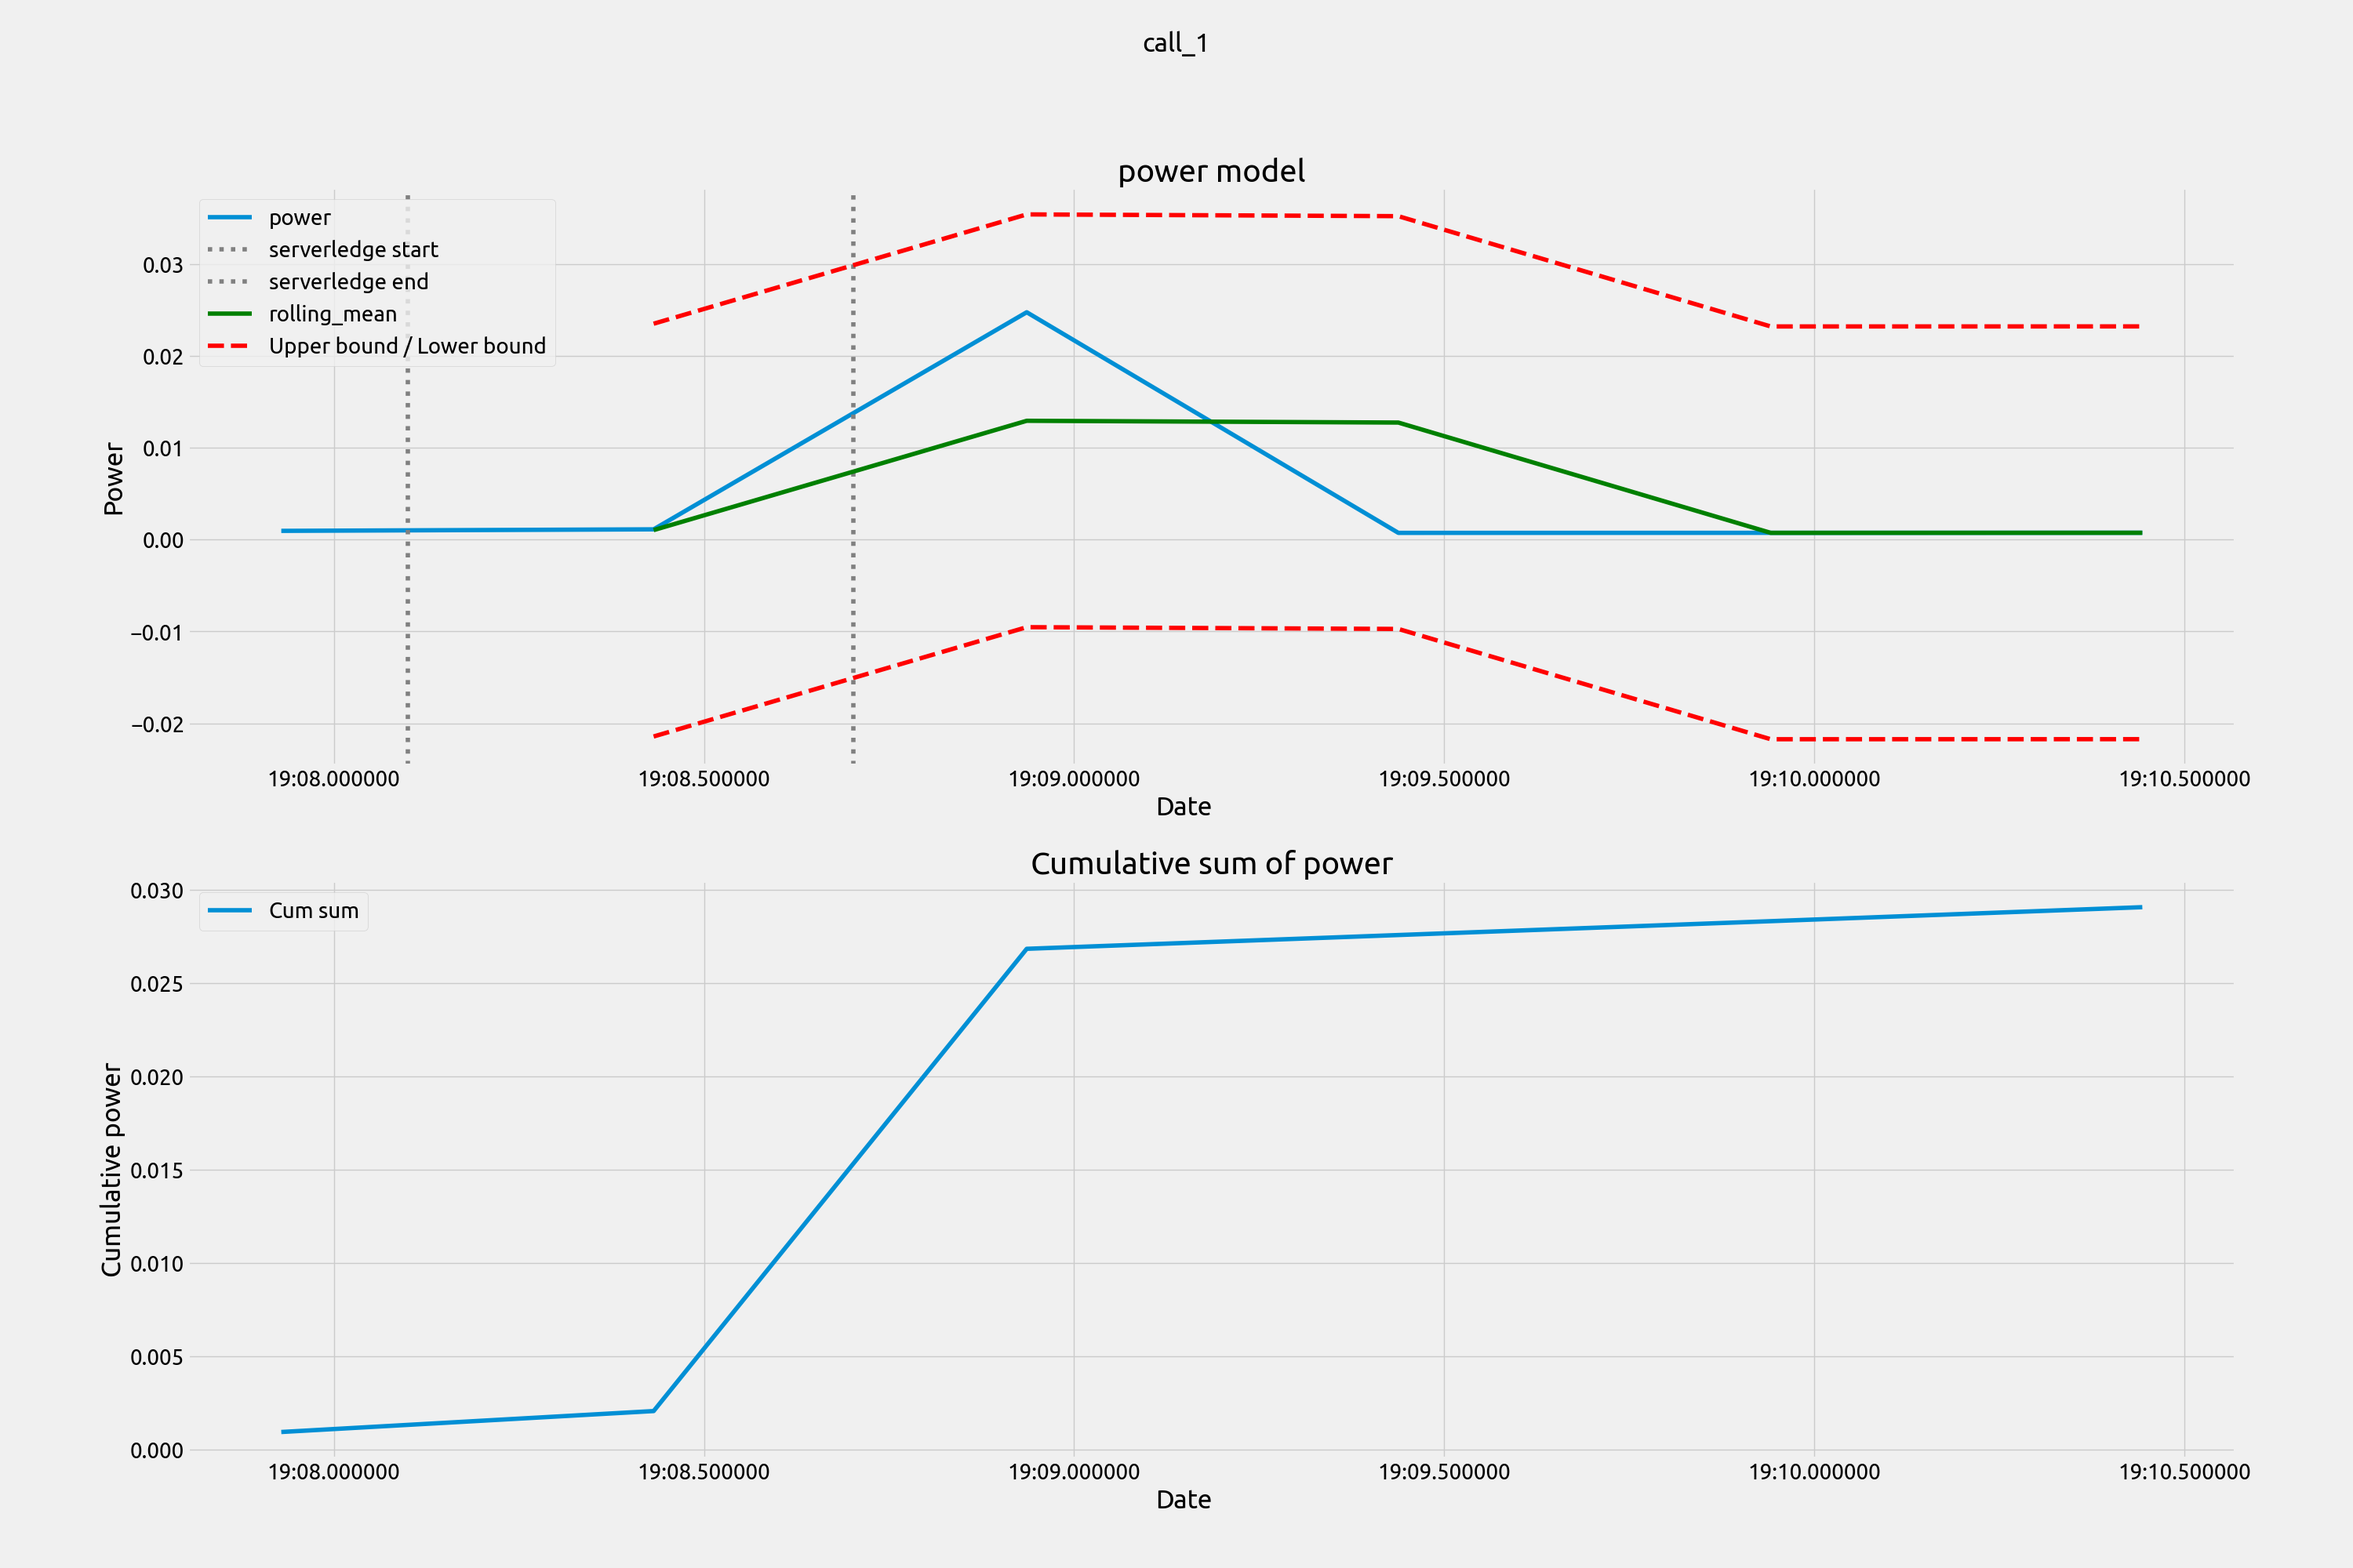
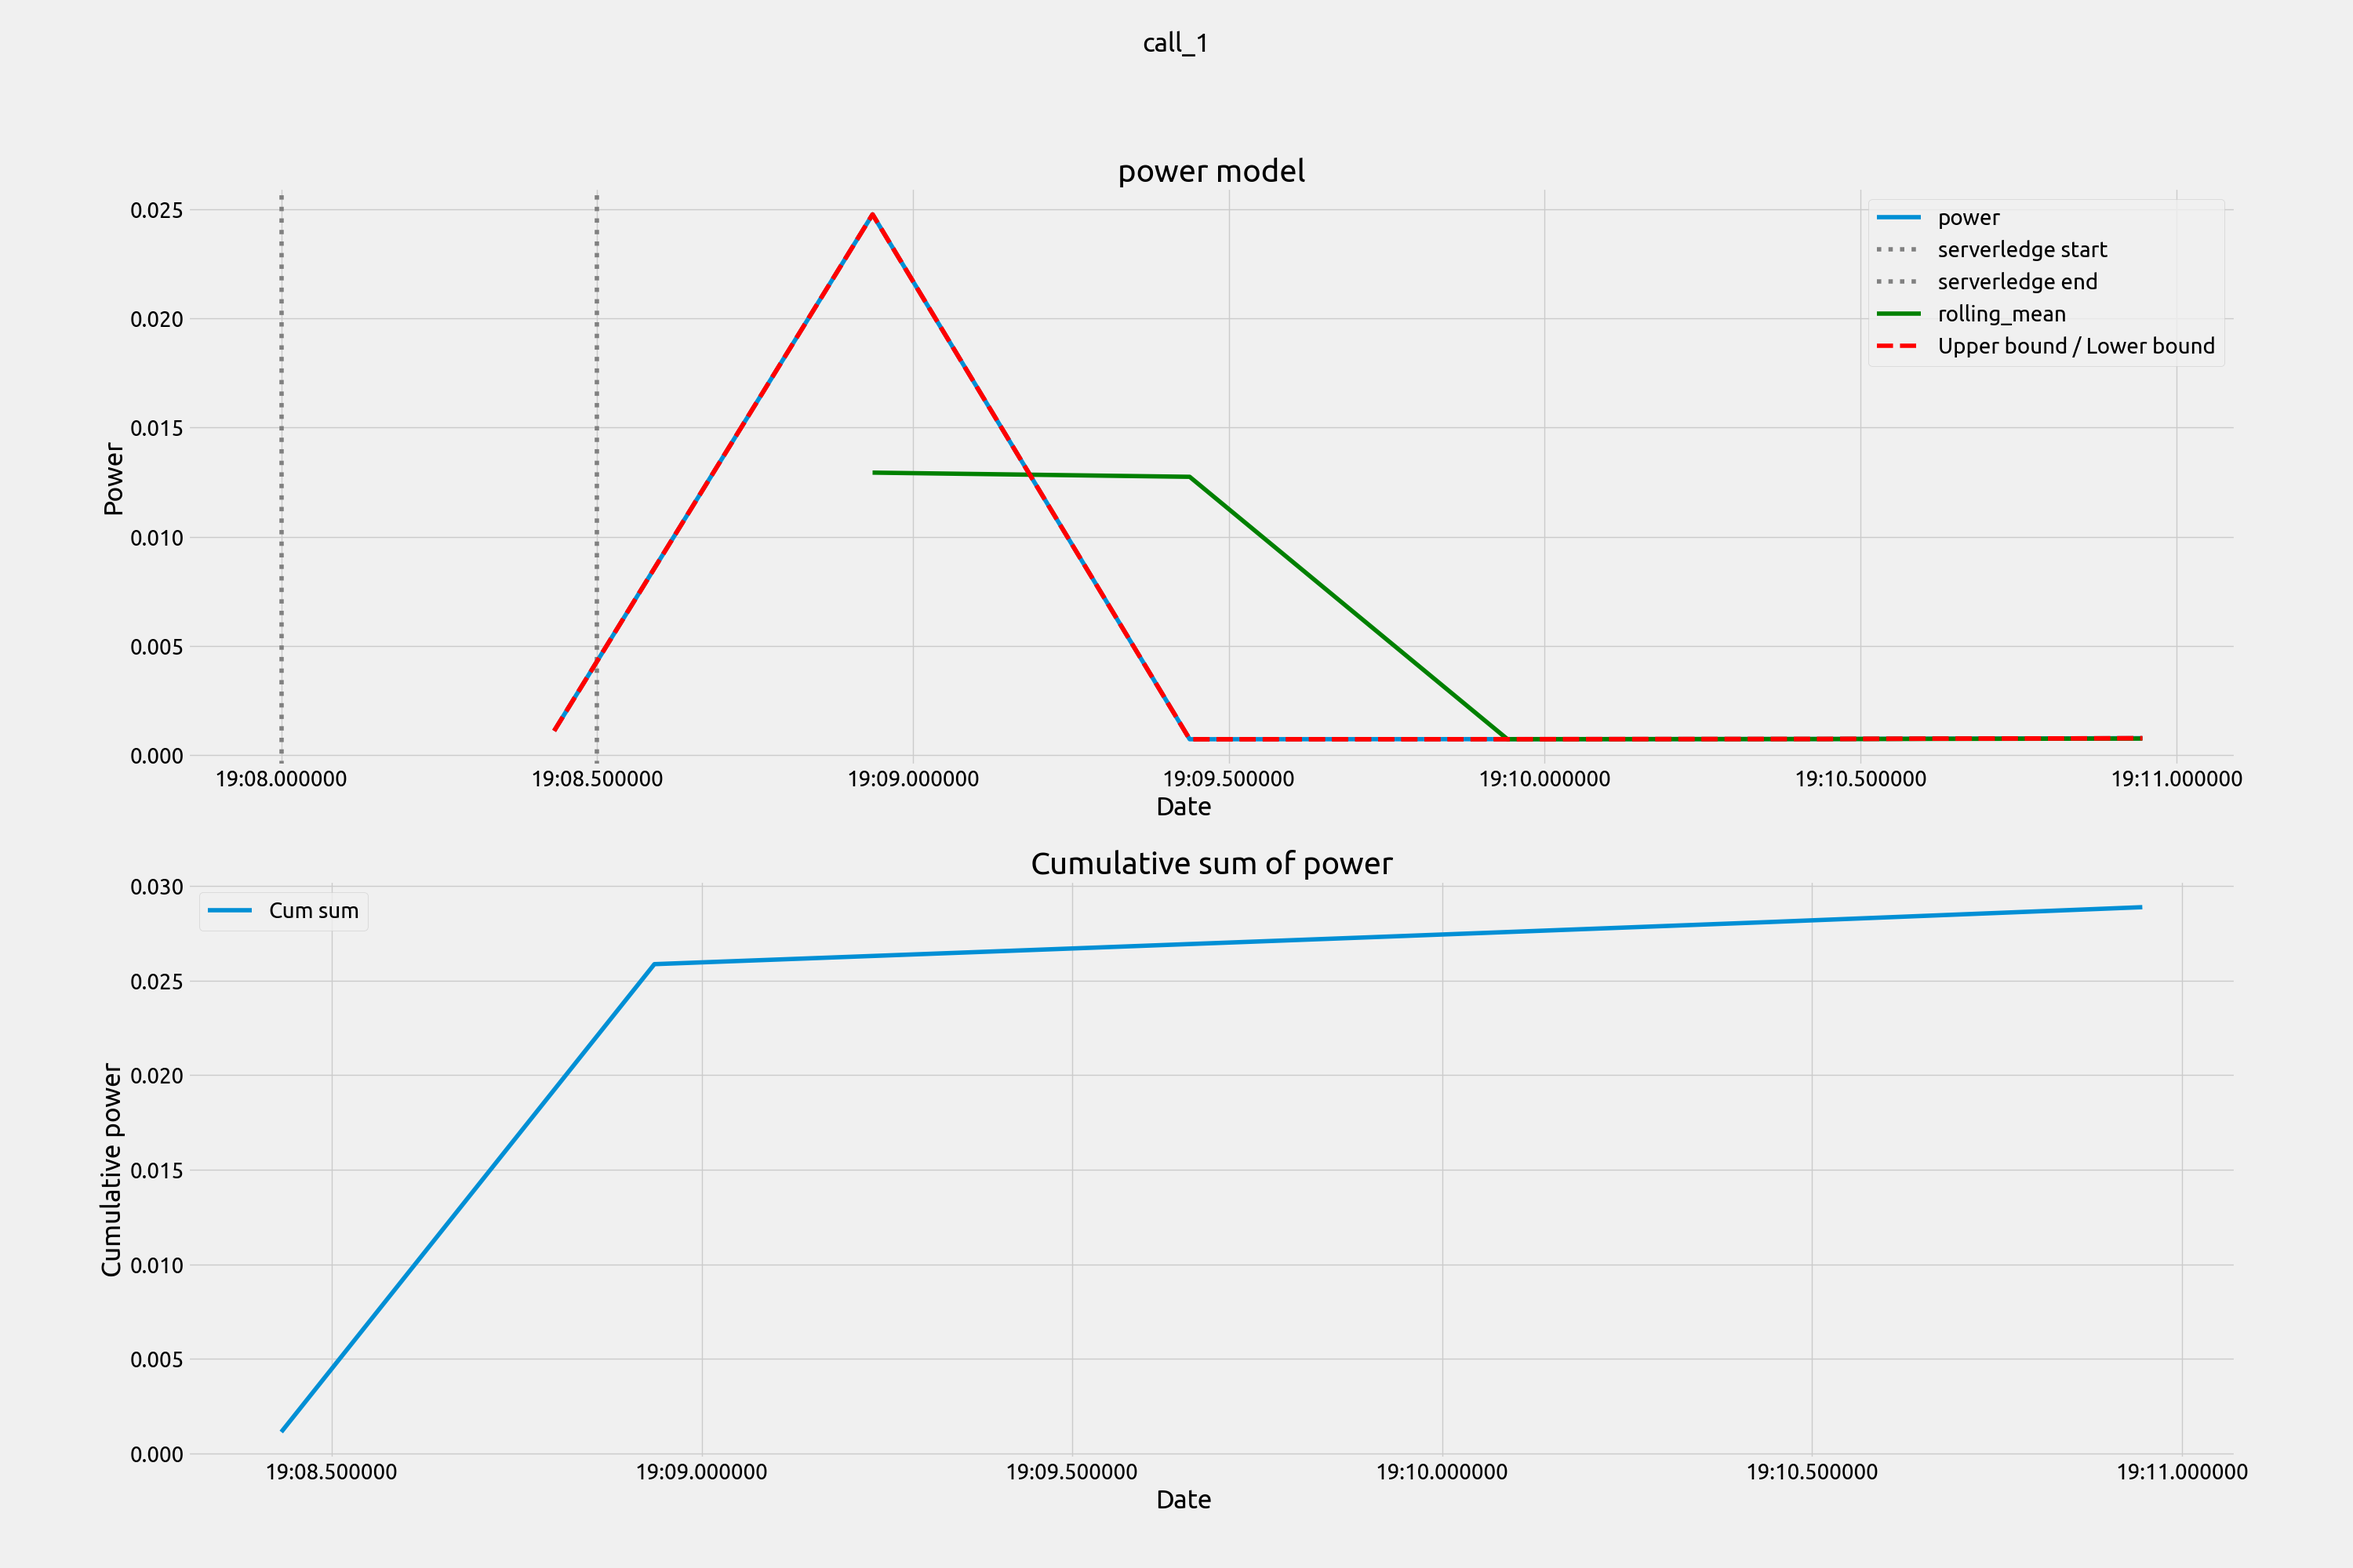
update alg

diff --git a/internals/energy.py b/internals/energy.py
@@ -13,6 +13,7 @@ import pylab
 from sklearn.metrics import r2_score, median_absolute_error, mean_absolute_error
 from sklearn.metrics import median_absolute_error, mean_squared_error, mean_squared_log_error
 import ruptures as rpt
+import math
 plt.style.use('fivethirtyeight')
 plt.rcParams["figure.figsize"] = (30,20)
 plt.rcParams['font.size'] =  20
@@ -22,6 +23,9 @@ plt.rcParams['font.monospace'] = 'Ubuntu Mono'
 plt.rcParams['figure.titlesize'] = 24
 import warnings
 warnings.filterwarnings('ignore')
+
+INTERVAL_REPORT = 0.5
+DELAY = 1.5
 def main() : 
     df = pd.read_csv('case_study/results.csv', parse_dates=['time'])
     df['time'] = pd.to_datetime(df.time).dt.tz_localize(None)
@@ -57,9 +61,9 @@ def plotTimeSeries(dataframe,title,start,end):
     axs[1].set_xlabel(xlabel='Date', ha='right')
     axs[1].set_ylabel('Cumulative power')
     scale=1.96
-    rolling_mean = dataframe['power'].rolling(window=2).mean()
-    mae = mean_absolute_error(dataframe['power'][2:], rolling_mean[2:])
-    deviation = np.std(dataframe['power'][1:] - rolling_mean[2:])
+    rolling_mean = dataframe['power'].rolling(window=1).mean()
+    mae = mean_absolute_error(dataframe['power'][1:], rolling_mean[1:])
+    deviation = np.std(dataframe['power'][1:] - rolling_mean[1:])
     lower_bound = rolling_mean - (mae + scale * deviation)
     upper_bound = rolling_mean + (mae + scale * deviation)
     axs[0].plot(dataframe.time,upper_bound, 'r--', label='Upper bound / Lower bound')
@@ -82,13 +86,23 @@ def plotTimeSeries(dataframe,title,start,end):
     
 def plot_a_call(df,event_start,event_duration,title) : 
     print("\nplot ", title)
+    print("start ",event_start)
+    print("duration", event_duration)
+
+    event_slots = event_duration/INTERVAL_REPORT
+    event_slots= math.ceil(event_slots)
+    print("duration slots" , event_slots*0.5)
+
+
     date_start = pd.to_datetime(event_start).tz_localize(None)
-    date_end = date_start+datetime.timedelta(seconds=event_duration+2.5)
-    date_start = date_start+datetime.timedelta(seconds=-0.5)
-    data_query = df[(df['time'] >= date_start) & (df['time'] <= date_end)]
-    start = date_start+datetime.timedelta(seconds=0.6)
-    end = start+datetime.timedelta(seconds=event_duration+0.6)
-    plotTimeSeries(data_query, title,start,end)
+    date_end = date_start+datetime.timedelta(seconds=event_slots*0.5)
+    date_query_end = date_start+datetime.timedelta(seconds=event_duration+2*DELAY)
+    start=date_start
+    data_query = df[(df['time'] >= date_start) & (df['time'] <= date_query_end)]
+
+    print("start" , start, "end -- ",date_end)
+    plotTimeSeries(data_query, title,start,date_end)
+        
 
 
 def plot_all(dataframe) : 
@@ -102,7 +116,7 @@ def plot_all(dataframe) :
     axs[0].set_ylabel('Power')
     axs[1].plot(dataframe.time, dataframe['power'].cumsum(skipna=False),  label='Cum sum')
     axs[1].set_title("Cumulative sum of power")
-    axs[0].plot(dataframe.time,dataframe['power'].rolling(2).mean(),label='rolling_mean',color='green')
+    axs[0].plot(dataframe.time,dataframe['power'].rolling(1).mean(),label='rolling_mean',color='green')
     axs[0].legend()
     axs[1].legend()
     axs[1].set_xlabel(xlabel='Date', ha='right')
